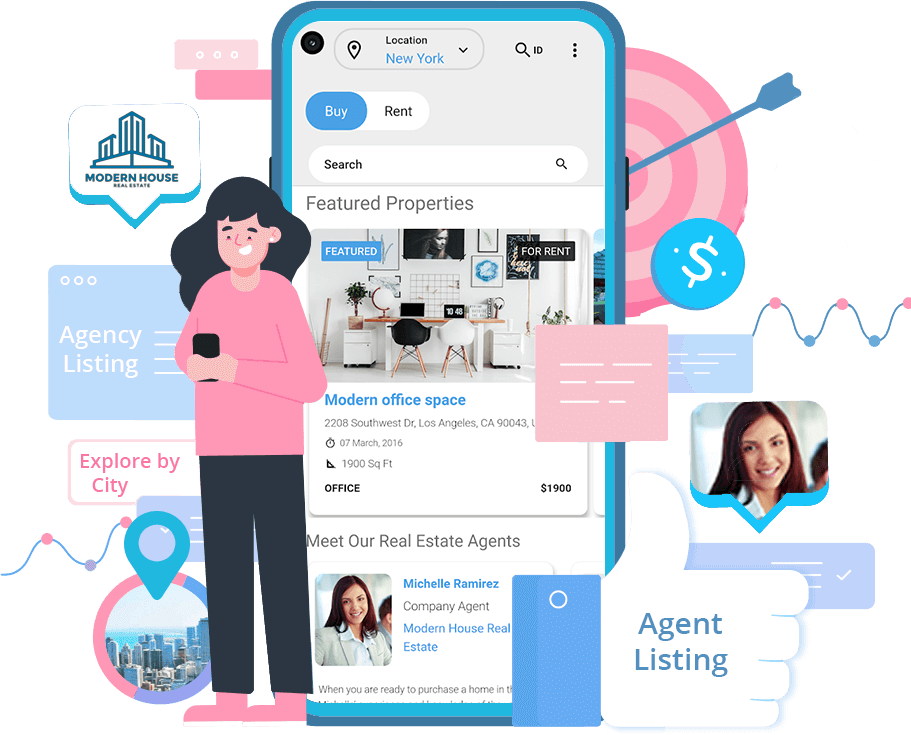
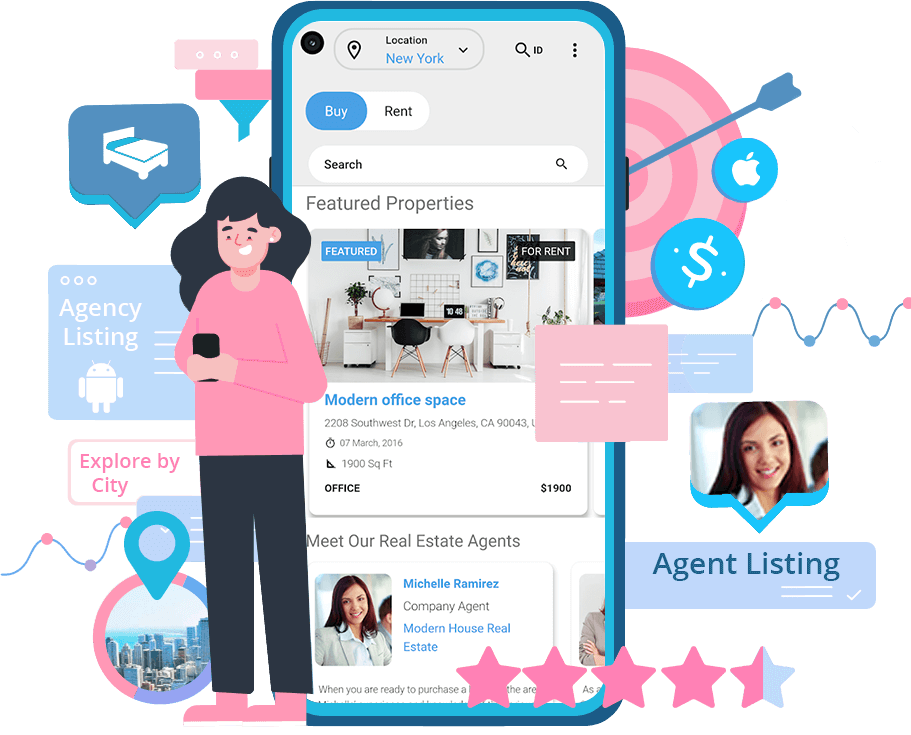
price tags, hero img and some style

diff --git a/index.html b/index.html
@@ -296,11 +296,14 @@ The profile page specifically shows agent ratings, reviews, and other profile da
             <h3>Pro Version</h3>
             <h4>$299<span>life time</span></h4>
             <ul>
-              <li><i class="bx bx-check"></i> View property insights</li>
-              <li><i class="bx bx-check"></i> Nec feugiat nisl pretium</li>
-              <li><i class="bx bx-check"></i> Nulla at volutpat diam uteera</li>
-              <li><i class="bx bx-check"></i> Pharetra massa massa ultricies</li>
-              <li><i class="bx bx-check"></i> Massa ultricies mi quis hendrerit</li>
+              <li><i class="bx bx-check"></i> Everything in Lite version</li>
+              <li><i class="bx bx-check"></i> Property reviews and rating</li>
+              <li><i class="bx bx-check"></i> Leads and inquiries management</li>
+              <li><i class="bx bx-check"></i> Nearby places via Yelp</li>
+              <li><i class="bx bx-check"></i> Mortgage finance calculator</li>
+              <li><i class="bx bx-check"></i> Property Insights Data</li>
+              <li><i class="bx bx-check"></i> Push notifications and alerts</li>
+              <li><i class="bx bx-check"></i> Agency profile chart data</li>
             </ul>
             <a href="#" class="get-started-btn">Get Started</a>
           </div>
@@ -308,12 +311,11 @@ The profile page specifically shows agent ratings, reviews, and other profile da
           <div class="col-lg-4 box" data-aos="fade-left">
             <h3>Custom Features</h3>
             <h4>Contact Us<span>for pricing</span></h4>
-            <ul>
-              <li><i class="bx bx-check"></i> Quam adipiscing vitae proin</li>
-              <li><i class="bx bx-check"></i> Nec feugiat nisl pretium</li>
-              <li><i class="bx bx-check"></i> Nulla at volutpat diam uteera</li>
-              <li><i class="bx bx-check"></i> Pharetra massa massa ultricies</li>
-              <li><i class="bx bx-check"></i> Massa ultricies mi quis hendrerit</li>
+            <ul class="" style="width:86%;padding-left: 2rem;">
+              <li> If you have any feature</li><li> or requirements that you want </li><li>exclusively in your app, 
+
+              </li><li>contact us and our excellent </li><li>team will make sure to </li><li>exceed your expectation</li>
+              
             </ul>
             <a href="#" class="get-started-btn">Get Started</a>
           </div>

diff --git a/assets/css/style.css b/assets/css/style.css
@@ -1099,3 +1099,18 @@ section {
   font-size: 30px !important;
 
 }
+.pl-5{
+  padding-left:3rem!important
+}
+.pl-4{
+  padding-left:1.5rem!important
+}
+.pl-3{
+padding-left: 1rem!important;
+}
+.pl-2{
+ padding-left: .5rem!important;
+}
+.pl-1{
+  padding-left: .25rem!important;
+}
